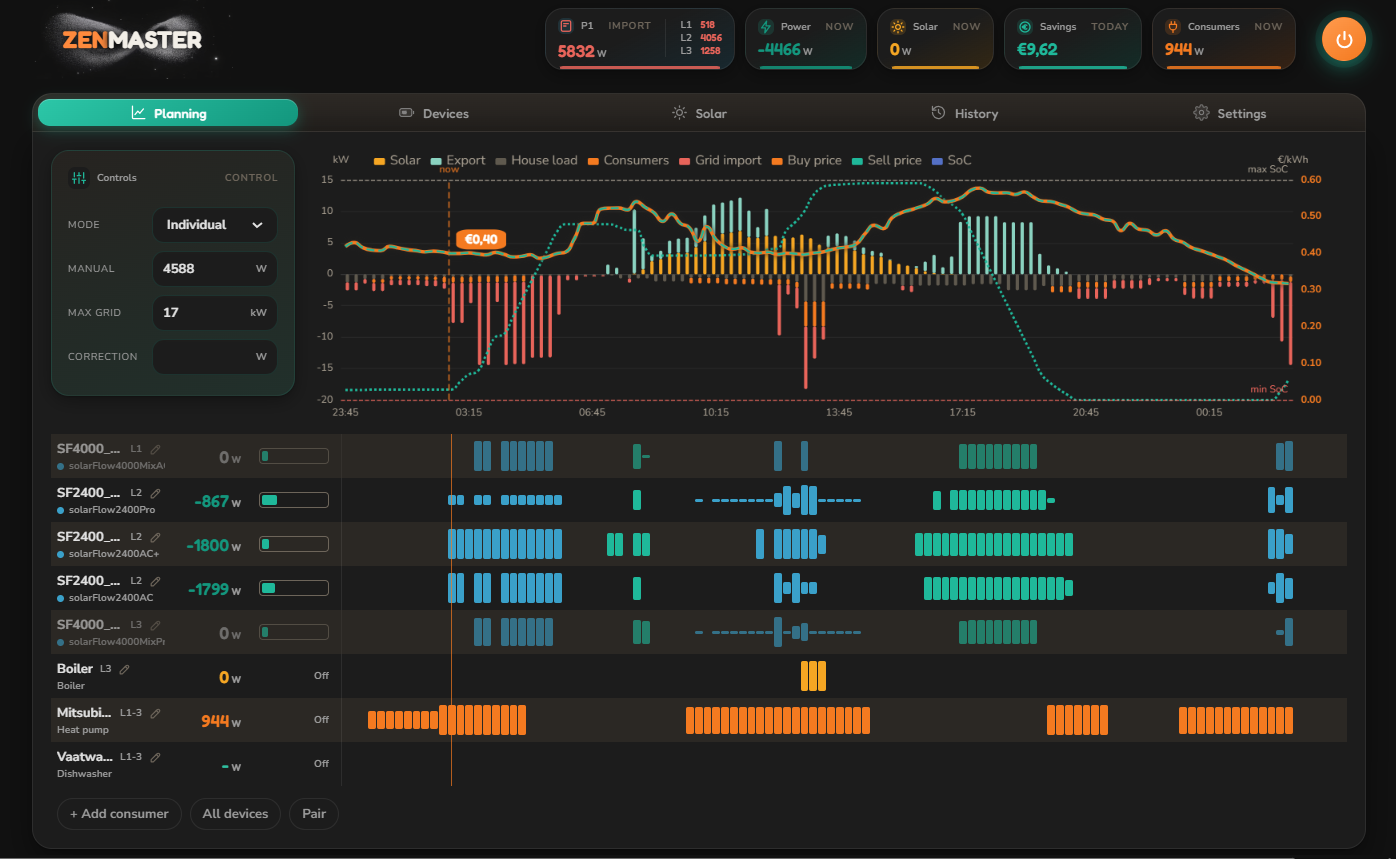
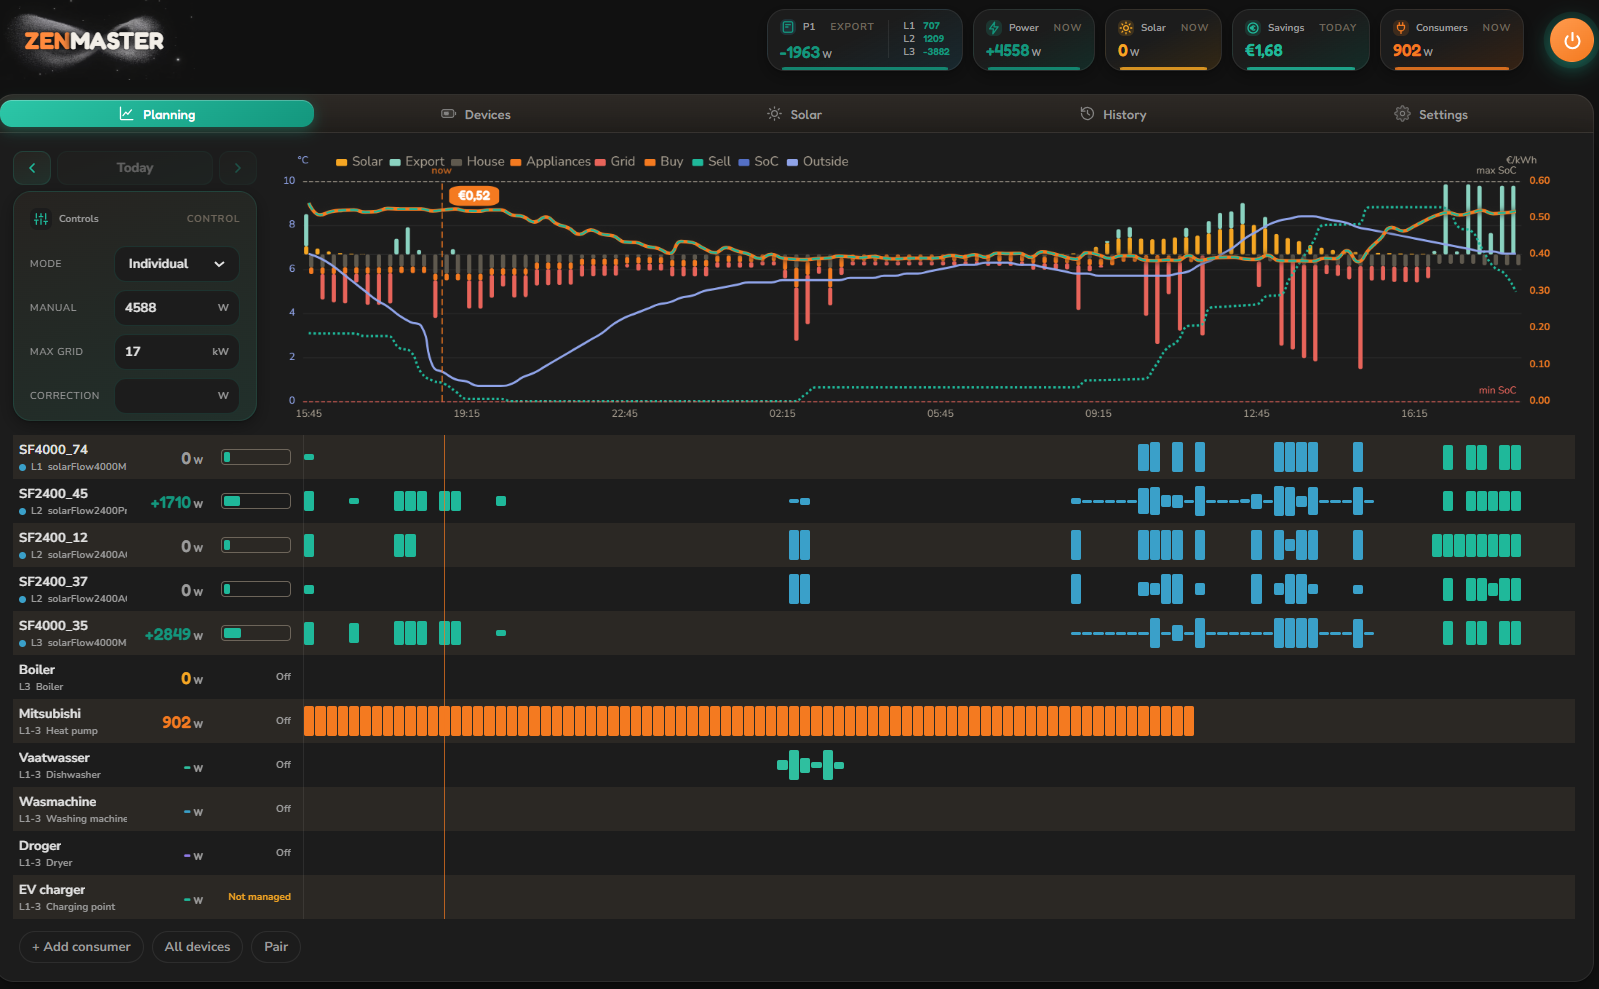
README: new planning screenshot, earlier days from the recorder

diff --git a/README.md b/README.md
@@ -27,6 +27,9 @@ The chart shows the plan for the coming 48 hours per quarter:
 - **Solar**, **Export**, **House load**, **Consumers** and **Grid import** as bars, in kW.
 - **Buy price** and **Sell price** as lines, in EUR/kWh, with the current price marked. Where the day-ahead prices end, the line continues dashed on the price model.
 - **SoC** of the fleet as a dotted line, between its min and max.
+- **Outside temperature** as a line, on the axis on the left in °C.
+
+With the arrows above the controls you step back through earlier days. The chart and the lanes then show what really happened that day, per quarter, from the Home Assistant recorder: solar, export, house load, consumers, grid import, the prices, the SoC of the fleet and every battery and consumer on its own, with the outside temperature from Open-Meteo. **Today** brings back the live plan. The recorder keeps 5-minute values for about ten days; older days show hourly values.
 
 ### Controls
 
@@ -37,7 +40,7 @@ The chart shows the plan for the coming 48 hours per quarter:
 
 ### Device and consumer lanes
 
-Under the chart each battery and each consumer has its own lane with its plan per quarter. Hover a bar to see its time and power. Each row shows its phase, its power now and, for a battery, its state of charge. **Add consumer** adds an appliance, a heat pump, a boiler or an EV charger; **All devices** toggles between all and only the online devices; **Pair** connects a new Zendure battery over Bluetooth.
+Under the chart each battery and each consumer has its own lane with its plan per quarter, or on an earlier day what it really did. Hover a bar to see its time and power. Each row shows its phase, its power now and, for a battery, its state of charge. **Add consumer** adds an appliance, a heat pump, a boiler or an EV charger; **All devices** toggles between all and only the online devices; **Pair** connects a new Zendure battery over Bluetooth.
 
 ## What ZenMaster plans
 
